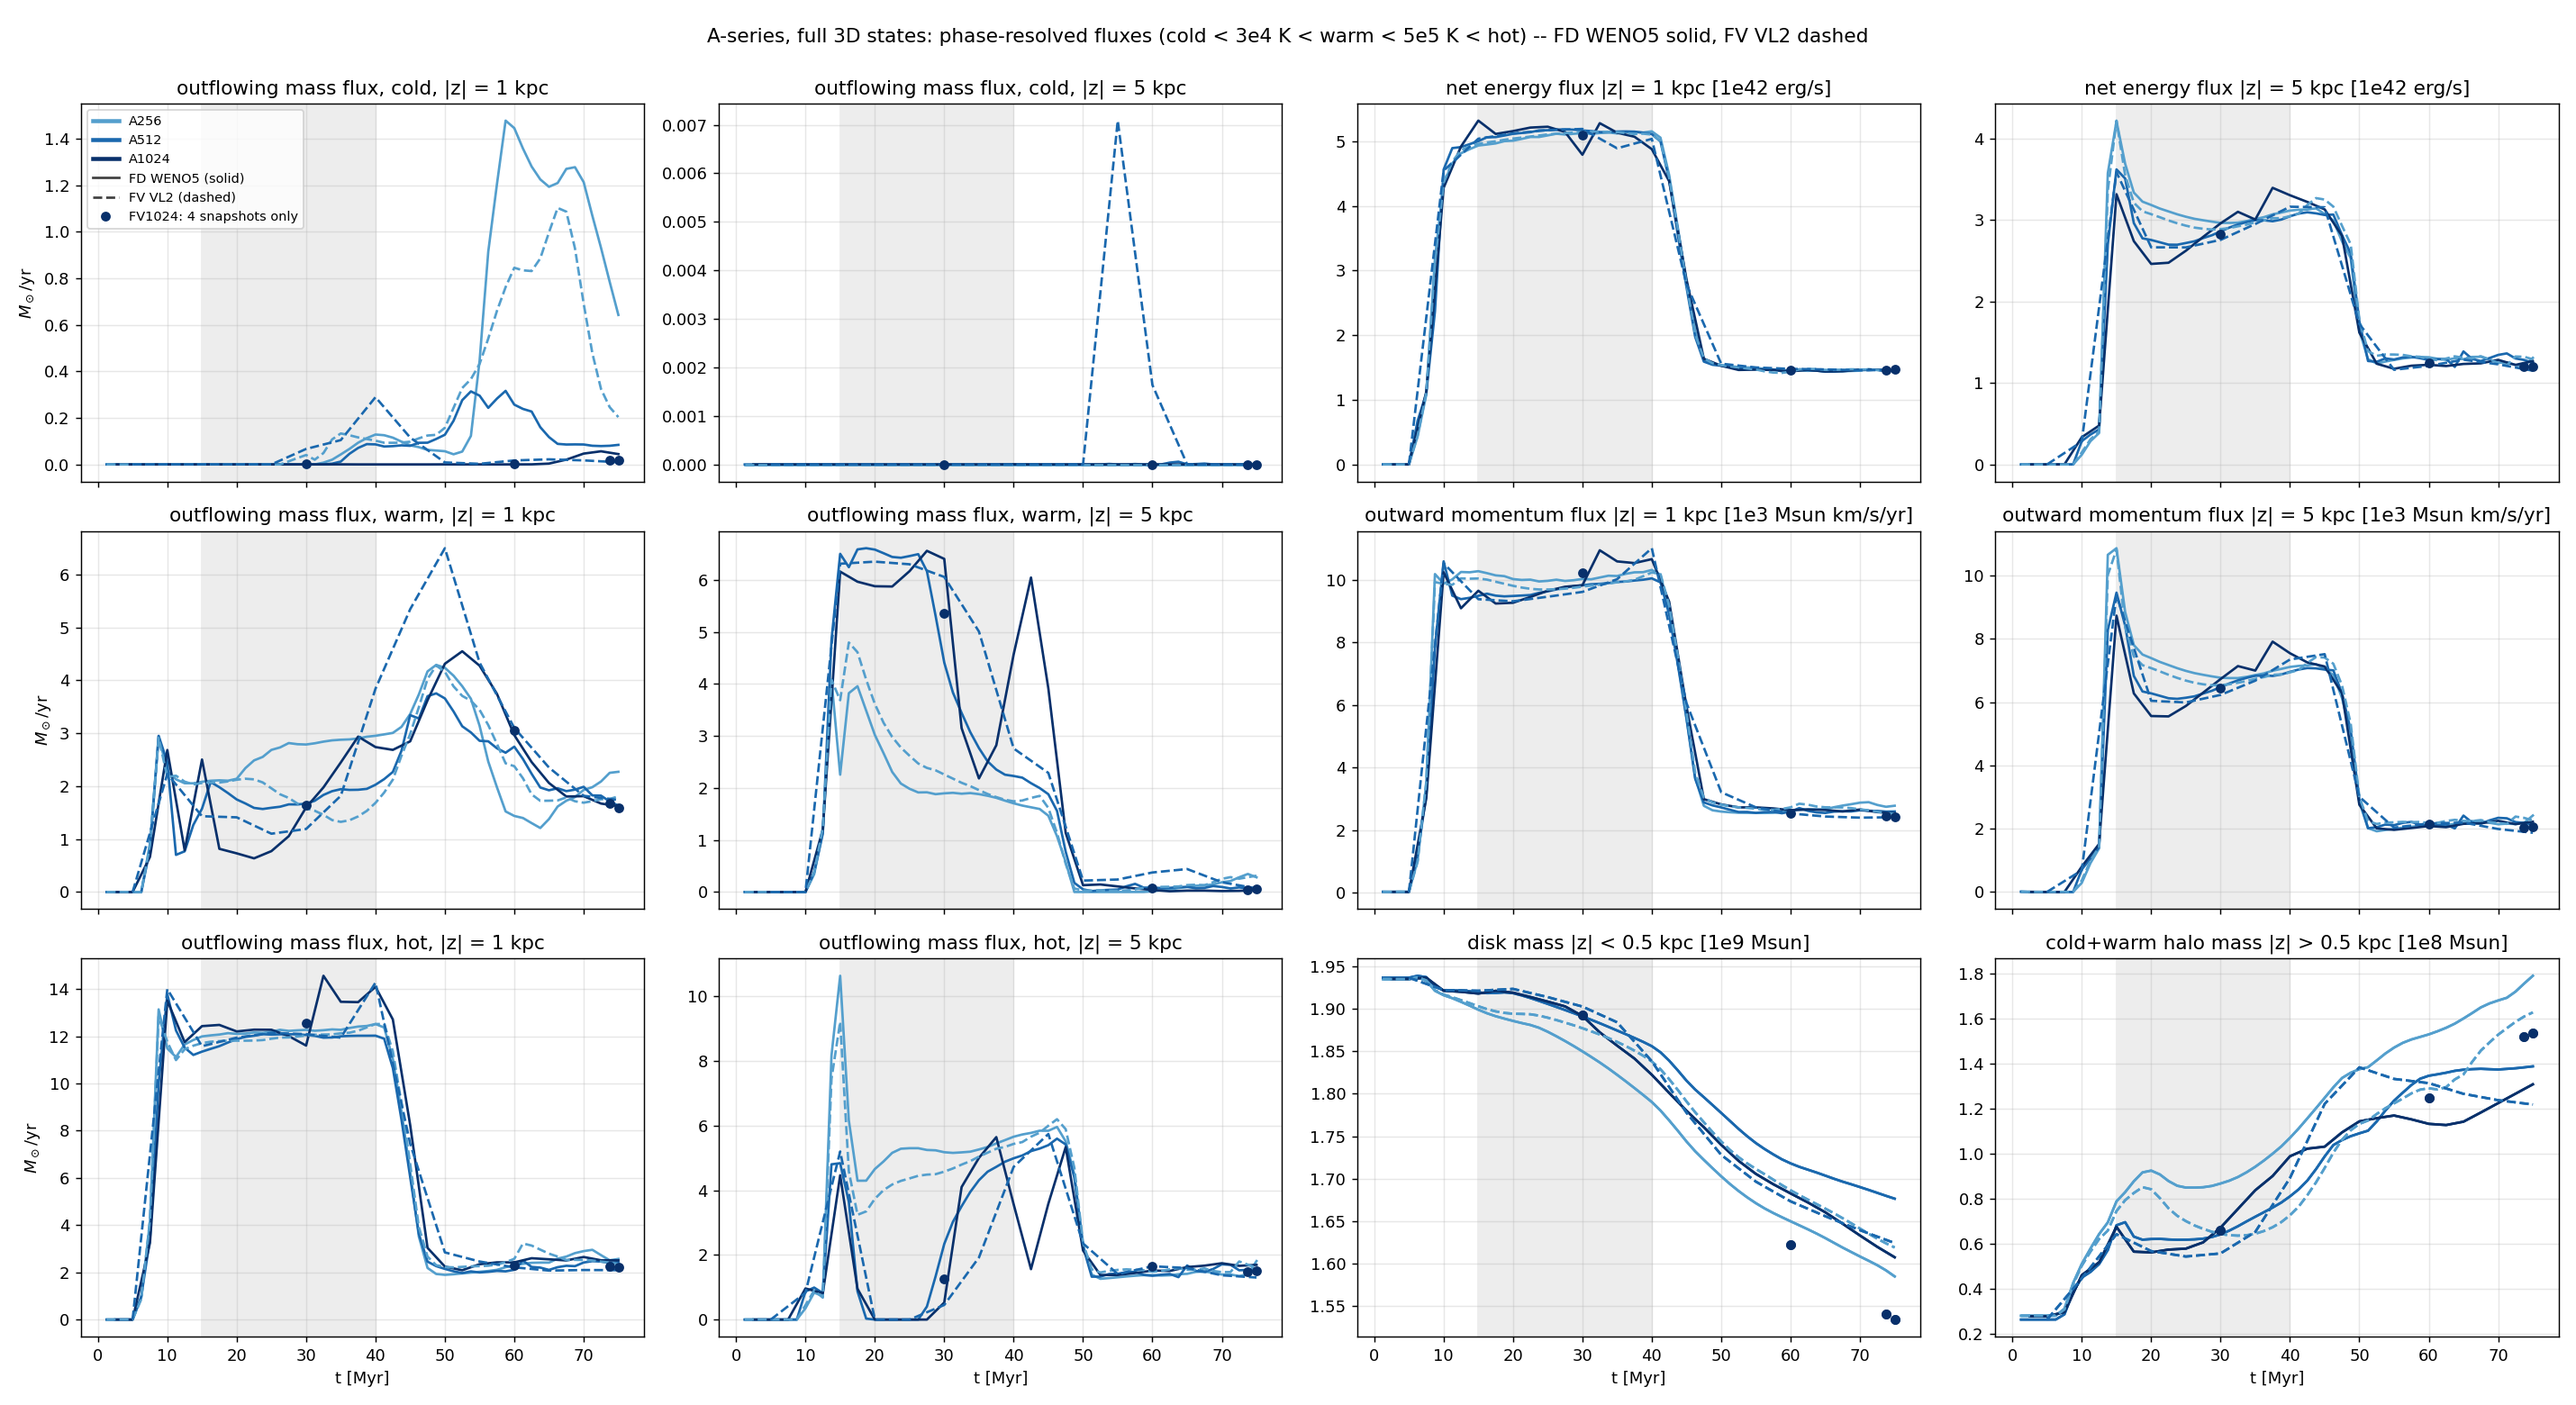
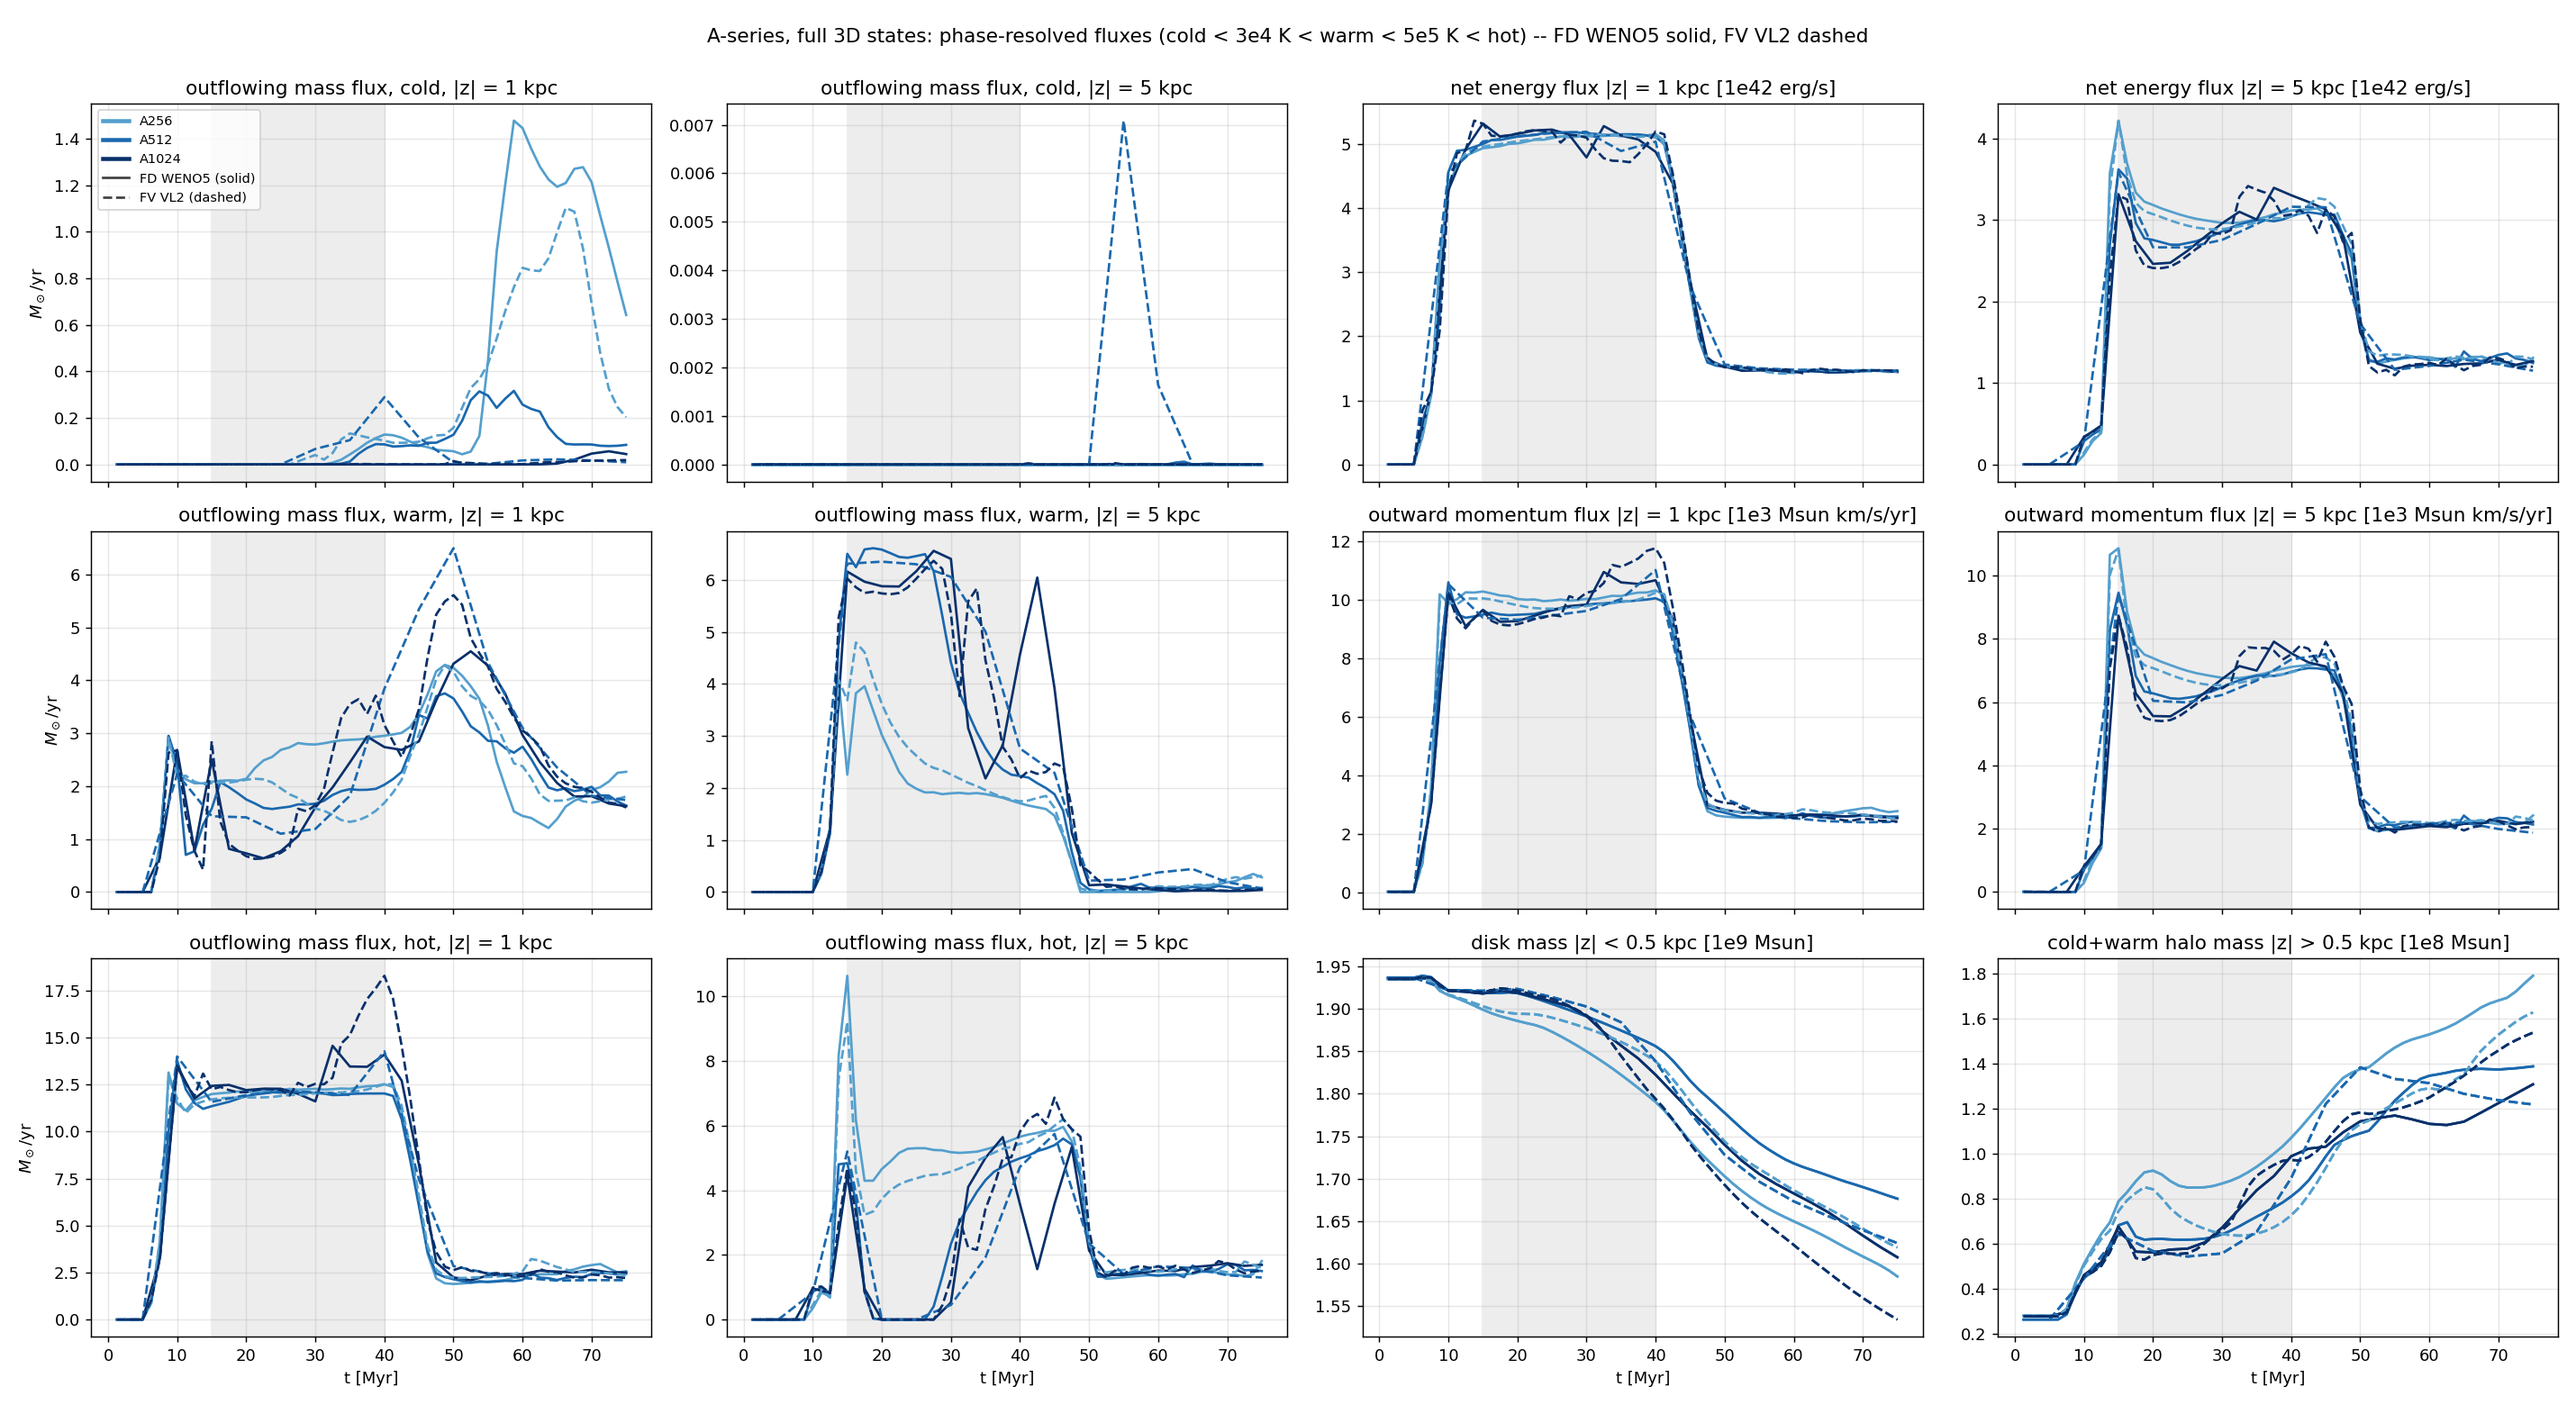
cgols: FV-1024 as full 60-checkpoint series in the 3D convergence figures and the FV/FD synthesis
3D cache of the bit-identical rerun _A1024fvr (HoreKa CPU job 115164, 60
checkpoints, 22 min) installed as convergence3d_v3_A1024fv (its 4 overlapping
checkpoints equal the old cache exactly); *_fv / *_fdfv figures redrawn, FV1024
3D window metrics in fvfd_synthesis now measured.

diff --git a/pytests/self_gravity/cgols/cgols_convergence_3d.py b/pytests/self_gravity/cgols/cgols_convergence_3d.py
@@ -422,7 +422,7 @@ def _series(records, key, reducer):
 
 
 #: A run with fewer cached snapshots than this is drawn as markers, not a line
-#: (e.g. FV-1024: only the checkpoints at 30, 60, 73.75 and 75 Myr exist).
+#: (e.g. a run whose checkpoints were pruned to a few kept states).
 SPARSE_SNAPSHOTS = 8
 #: Scheme names of the merged FD + FV figures (--fv).
 FD_NAME, FV_NAME = "FD WENO5", "FV VL2"
